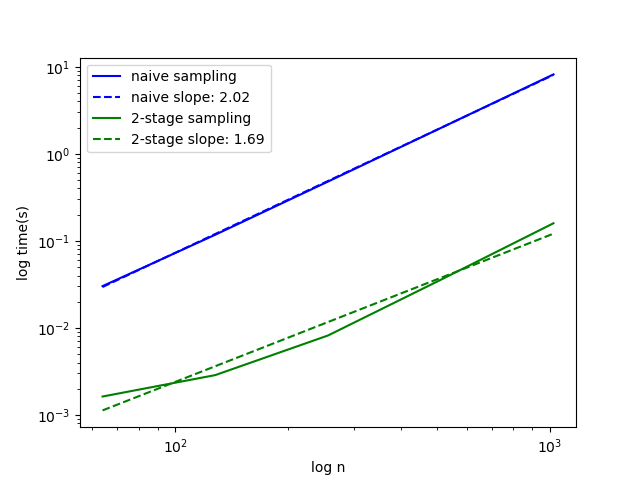
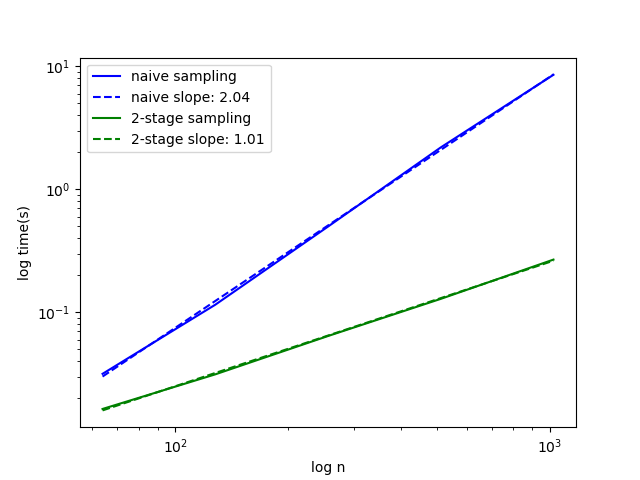
Corrections and optimise efficiency for algorithms.

diff --git a/wk1_6_complexity.py b/wk1_6_complexity.py
@@ -3,8 +3,7 @@ import matplotlib.pyplot as plt
 import timeit
 
 from network_def import Network
-from wk1_1_naive_sampling import rm_graph_gen
-from wk1_5_eff_sampling import *
+from wk1_sampling import *
 
 
 def time_compare():
@@ -13,18 +12,15 @@ def time_compare():
 
     t_ary_1 = np.empty(len(n_ary))
     t_ary_2 = np.empty(len(n_ary))
-    t_ary_3 = np.empty(len(n_ary))
     for i, n in enumerate(n_ary):
         p = 10/(n-1)
-        t_ary_1[i] = timeit.timeit(lambda: rm_graph_gen(n, p, True), number=100)
-        t_ary_2[i] = timeit.timeit(lambda: rm_graph_gen2(n, p, True), number=100)
-        t_ary_3[i] = timeit.timeit(lambda: rm_graph_gen3(n, p, True), number=100)
+        t_ary_1[i] = timeit.timeit(lambda: rm_graph_gen(n, p, True), number=10)
+        t_ary_2[i] = timeit.timeit(lambda: rm_graph_gen2(n, p, True), number=10)
     print("time for naive sampling algorithm:")
     print(t_ary_1)
     print(f"time for 2-stage algorithm:")
     print(t_ary_2)
-    print(f"time for inbuilt algorithm:")
-    print(t_ary_3)
+
 
 
     # Perform linear regression in log scale
@@ -32,16 +28,13 @@ def time_compare():
     t_1_fit = np.poly1d(coeff_1) 
     coeff_2= np.polyfit(np.log(n_ary), np.log(t_ary_2), deg=1)
     t_2_fit = np.poly1d(coeff_2) 
-    coeff_3= np.polyfit(np.log(n_ary), np.log(t_ary_3), deg=1)
-    t_3_fit = np.poly1d(coeff_3) 
 
     # plot the results in log scale
     plt.loglog(n_ary, t_ary_1, "b", label="naive sampling")
     plt.loglog(n_ary, np.exp(t_1_fit(np.log(n_ary))), "--b", label=f"naive slope: {coeff_1[0]:.2f}")
     plt.loglog(n_ary, t_ary_2, "g", label="2-stage sampling")
     plt.loglog(n_ary, np.exp(t_2_fit(np.log(n_ary))), "--g", label=f"2-stage slope: {coeff_2[0]:.2f}")
-    plt.loglog(n_ary, t_ary_3, "r", label="inbuilt sampling")
-    plt.loglog(n_ary, np.exp(t_2_fit(np.log(n_ary))), "--r", label=f"inbuilt slope: {coeff_3[0]:.2f}")
+
 
     # plt.plot(n_ary, t_ary_1, label="naive sampling")
     # plt.plot(n_ary, t_ary_2, label="2-stage sampling")
@@ -50,7 +43,7 @@ def time_compare():
     plt.legend()
     plt.show()
 
-    return t_ary_1, t_ary_2, t_ary_3
+    return t_ary_1, t_ary_2
 
 
 
